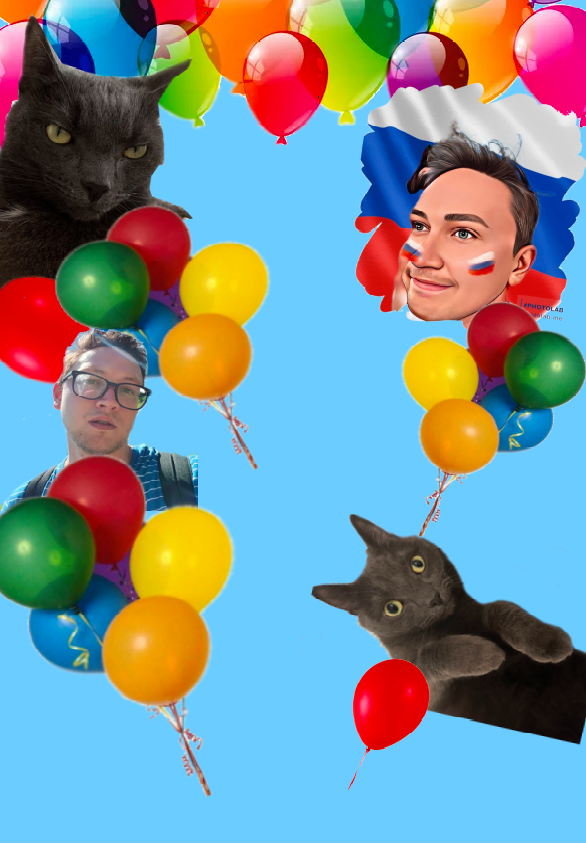
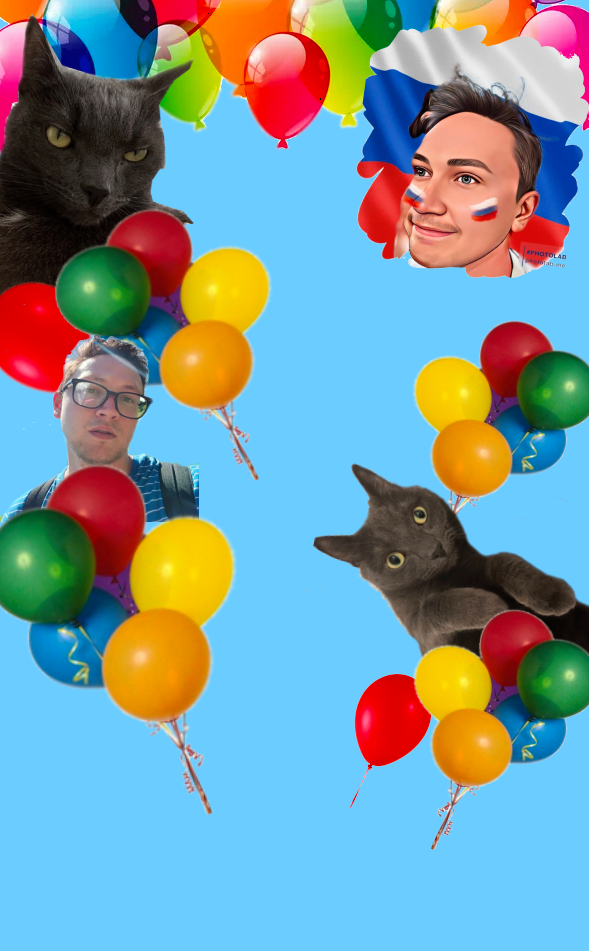
secret

diff --git a/src/App.css b/src/App.css
@@ -1,7 +1,7 @@
 .App {
   width: 100%;
   height: 100vh;
-  background-color: #10155C;
+  background-color: #6ACDFF;
   background-image: url('bg.png');
   background-repeat: no-repeat;
   background-size: contain;
